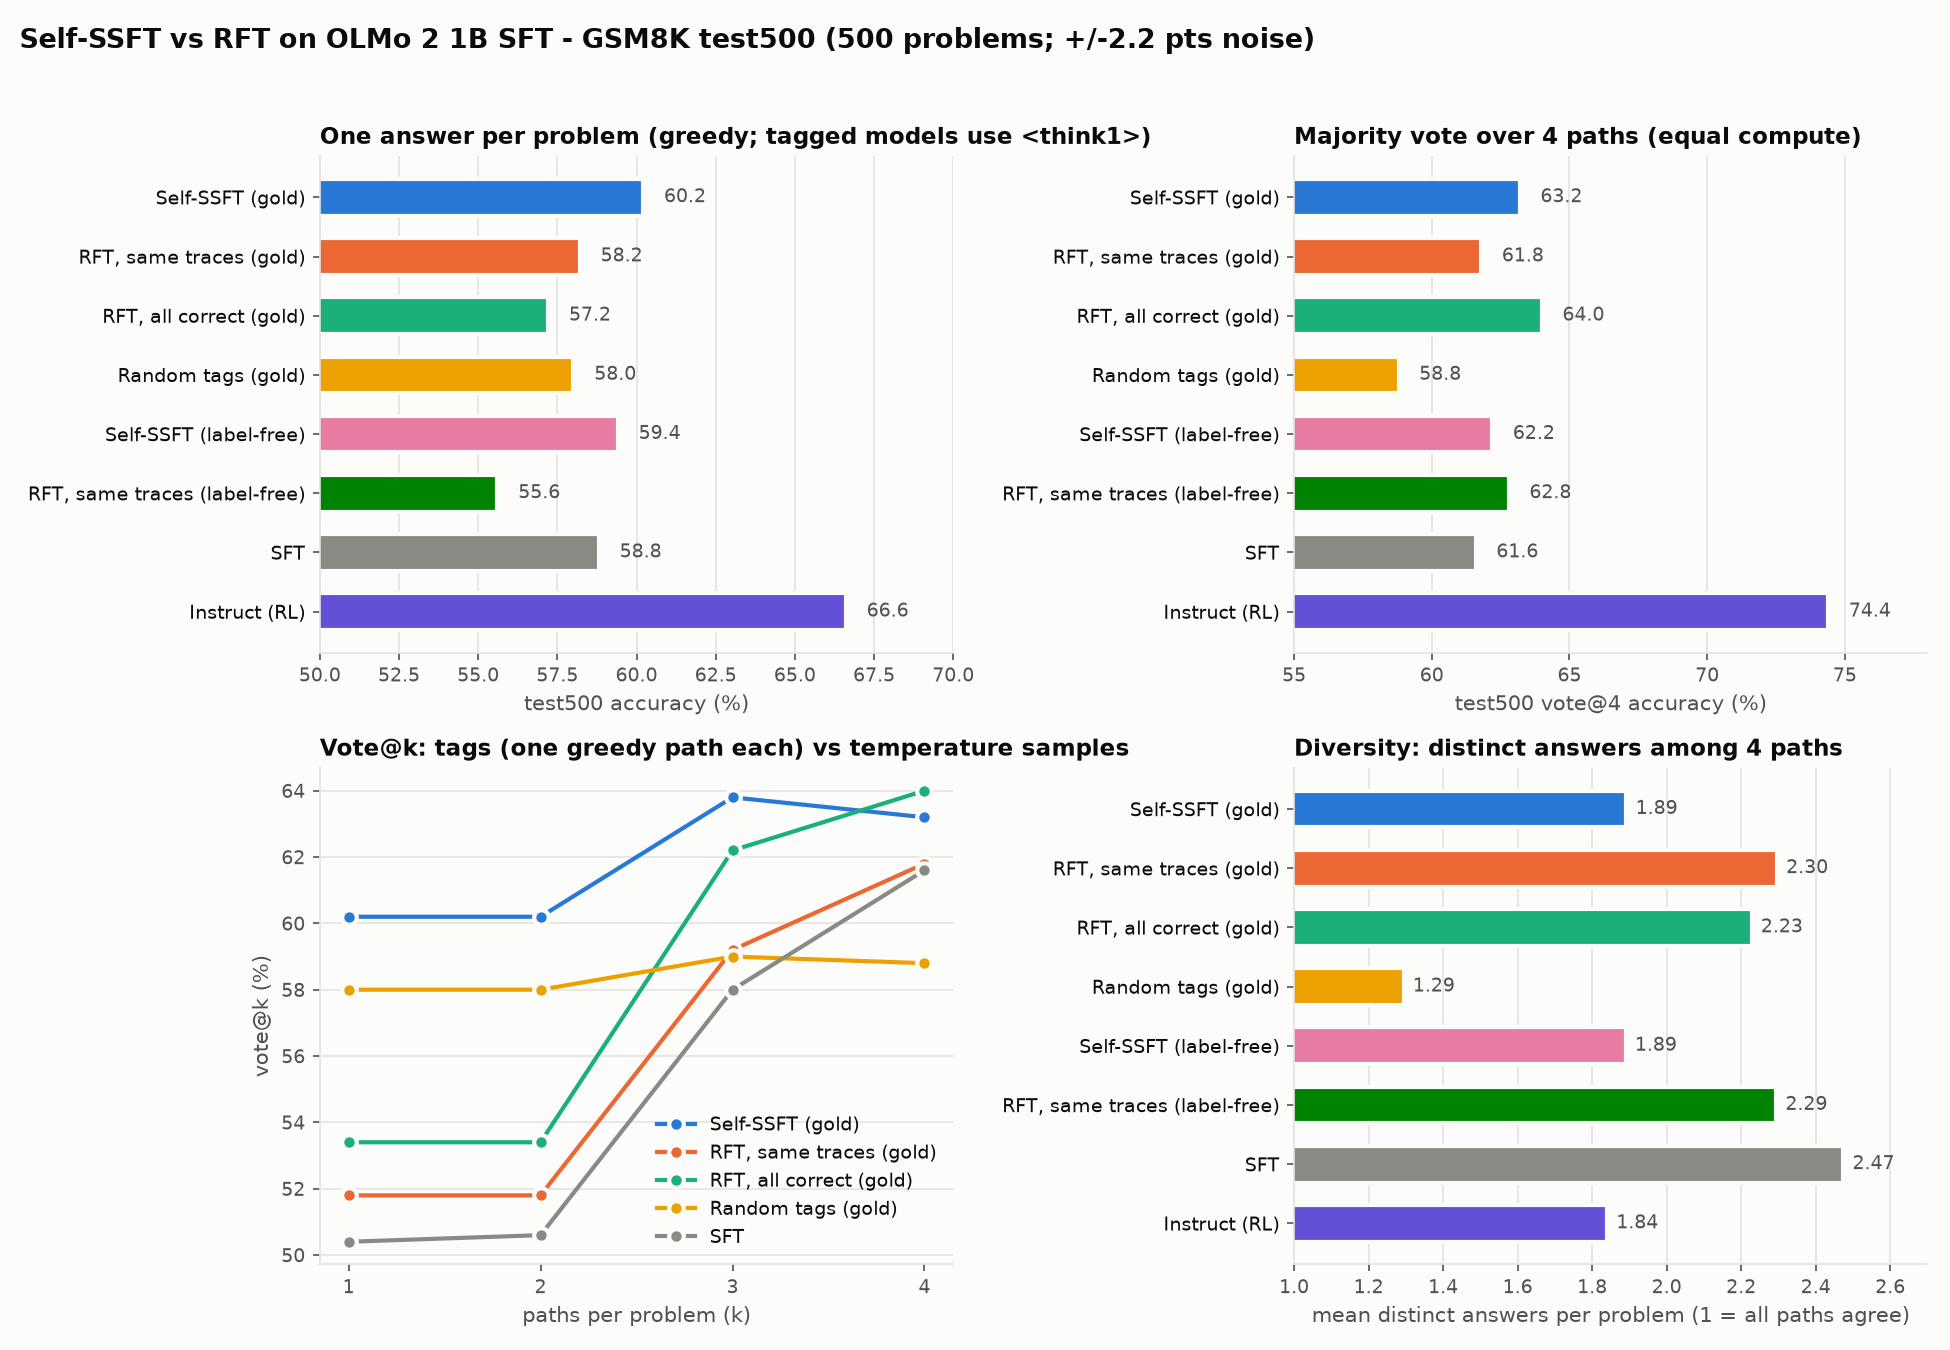
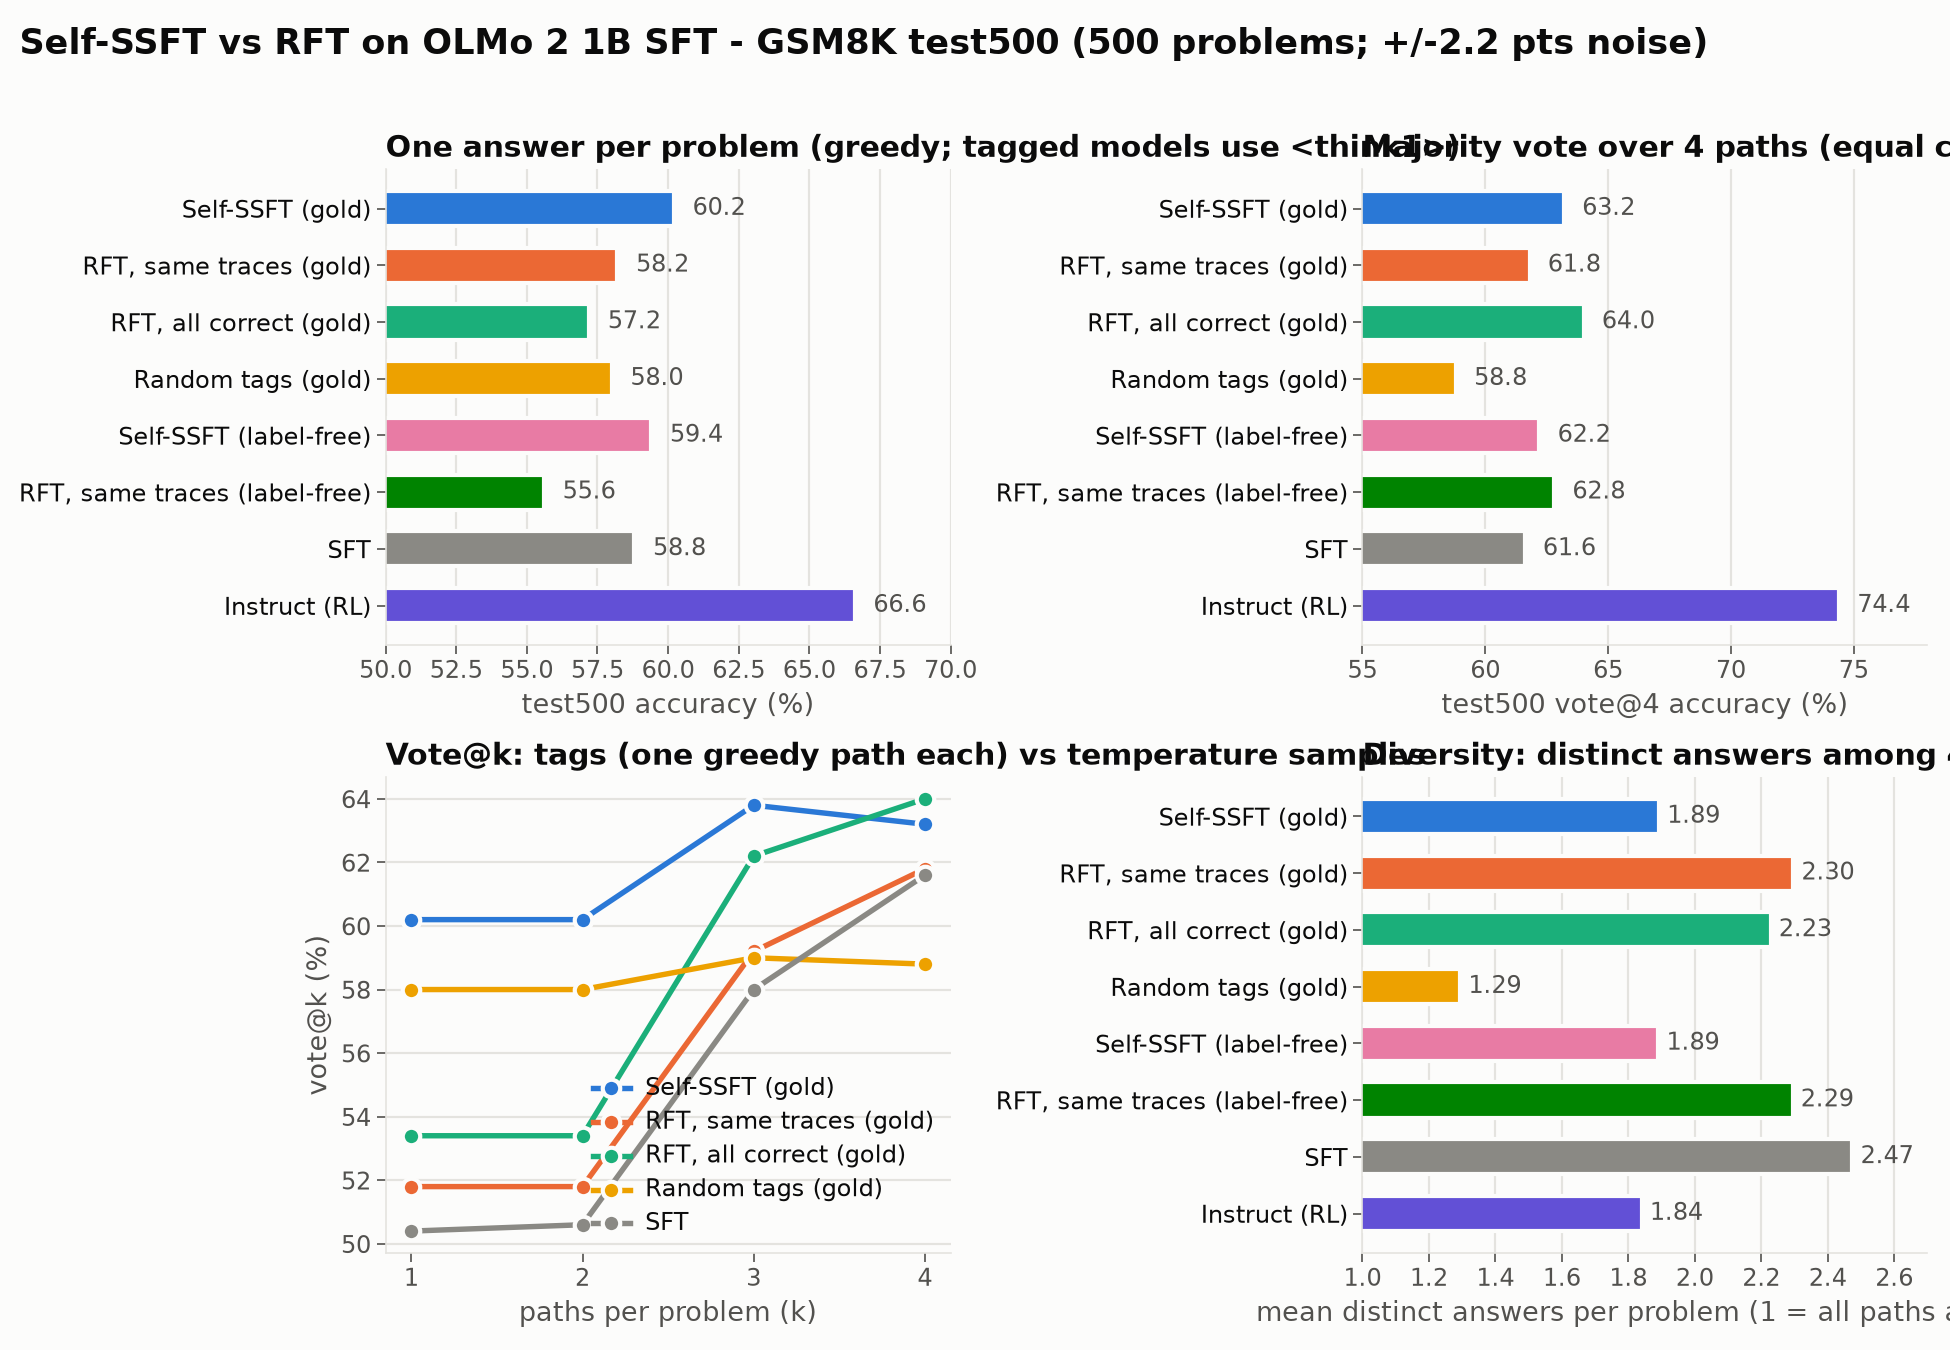
Self-SSFT at 7B: tag embeddings as a small delta (no full-embedding optimizer state), chunked scoring; gcp_ssft.sh SIZE=7b, SHUTDOWN=1; larger plot text

diff --git a/train/ssft_lora.py b/train/ssft_lora.py
@@ -116,6 +116,7 @@ def main():
     ap.add_argument("--accum", type=int, default=8, help="questions per optimizer step")
     ap.add_argument("--rank", type=int, default=32)
     ap.add_argument("--max_len", type=int, default=640)
+    ap.add_argument("--chunk", type=int, default=4, help="sequences per forward pass (memory)")
     ap.add_argument("--seed", type=int, default=0)
     ap.add_argument("--limit", type=int, default=None)
     ap.add_argument("--out", required=True)
@@ -161,14 +162,17 @@ def main():
             p.data = p.data.float()
     lora_params = [p for p in model.parameters() if p.requires_grad]
     groups = [{"params": lora_params, "lr": args.lr}]
-    if tags:   # only the new rows learn: gradients of every other row are zeroed (Adam then leaves them unchanged)
-        emb_w = model.get_input_embeddings().weight
-        emb_w.data = emb_w.data.float()
-        emb_w.requires_grad_(True)
-        mask = torch.zeros(emb_w.shape[0], 1, device=emb_w.device, dtype=emb_w.dtype)
-        mask[tag_ids] = 1
-        emb_w.register_hook(lambda gr: gr * mask)
-        groups.append({"params": [emb_w], "lr": args.emb_lr})
+    delta = None
+    if tags:   # tag embeddings learn through a small (N x d) delta added in a forward hook; merged into the rows at save
+        emb_mod = model.get_input_embeddings()
+        tag_t = torch.tensor(tag_ids, device="cuda")
+        delta = torch.nn.Parameter(torch.zeros(len(tag_ids), emb_mod.weight.shape[1], device="cuda"))
+
+        def add_delta(mod, inp, out):
+            hit = (inp[0].unsqueeze(-1) == tag_t).to(delta.dtype)          # [B, L, N]
+            return out + (hit @ delta).to(out.dtype)
+        hook = emb_mod.register_forward_hook(add_delta)
+        groups.append({"params": [delta], "lr": args.emb_lr})
     opt = torch.optim.AdamW(groups, weight_decay=0.0)
     total = math.ceil(len(sets) * args.epochs / args.accum); warm = max(1, total // 20)
     sched = torch.optim.lr_scheduler.LambdaLR(opt, lambda s: min(1.0, (s + 1) / warm) * max(0.0, 1 - s / max(1, total)))
@@ -199,12 +203,17 @@ def main():
         return ids, lab, att
 
     def per_seq_loss(ids, lab, att):
-        with torch.autocast("cuda", dtype=torch.bfloat16):
-            logits = model(input_ids=ids, attention_mask=att).logits[:, :-1].float()
-        tgt = lab[:, 1:]
-        nll = torch.nn.functional.cross_entropy(logits.transpose(1, 2), tgt.clamp(min=0), reduction="none")
-        m = (tgt != -100).float()
-        return (nll * m).sum(1) / m.sum(1).clamp(min=1)
+        """Mean token NLL per sequence, computed --chunk sequences at a time (full-vocab logits are large at 7B)."""
+        outs = []
+        for i in range(0, ids.shape[0], args.chunk):
+            with torch.autocast("cuda", dtype=torch.bfloat16):
+                logits = model(input_ids=ids[i:i + args.chunk], attention_mask=att[i:i + args.chunk]).logits[:, :-1]
+            tgt = lab[i:i + args.chunk, 1:]
+            nll = torch.nn.functional.cross_entropy(logits.float().transpose(1, 2), tgt.clamp(min=0), reduction="none")
+            m = (tgt != -100).float()
+            outs.append((nll * m).sum(1) / m.sum(1).clamp(min=1))
+            del logits, nll
+        return torch.cat(outs)
 
     model.train(); step = 0; log = []; usage = Counter(); agree_prev = []
     prev_assign = {}
@@ -239,6 +248,11 @@ def main():
                     log.append(rec); print(rec, flush=True); usage = Counter(); agree_prev = []
 
     out = Path(args.out); out.mkdir(parents=True, exist_ok=True)
+    if delta is not None:
+        hook.remove()
+        with torch.no_grad():
+            w = model.get_input_embeddings().weight
+            w[tag_ids] = (w[tag_ids].float() + delta).to(w.dtype)
     model.merge_and_unload().to(torch.bfloat16).save_pretrained(out, safe_serialization=True)
     tok.save_pretrained(out)
     json.dump({"args": vars(args), "tags": tags, "questions": len(sets), "traces": n_tr, "log": log},

diff --git a/analysis/plot_ssft.py b/analysis/plot_ssft.py
@@ -34,6 +34,15 @@ def style(ax, title):
     ax.set_axisbelow(True)
 
 
+def enlarge(fig, k):
+    """Scale every text and line in a figure so it stays readable when shrunk to a 5.5in column."""
+    import matplotlib.text, matplotlib.lines
+    for t in fig.findobj(matplotlib.text.Text):
+        t.set_fontsize(t.get_fontsize() * k)
+    for l in fig.findobj(matplotlib.lines.Line2D):
+        l.set_linewidth(l.get_linewidth() * 1.3); l.set_markersize(l.get_markersize() * 1.2)
+
+
 def hbar(ax, names, vals, fmt="{:.1f}"):
     y = range(len(names))
     ax.barh(list(y), vals, color=[C[n] for n in names], height=0.62, edgecolor=SURF, linewidth=2)
@@ -78,7 +87,7 @@ def main():
     ax.set_xlabel("mean distinct answers per problem (1 = all paths agree)", color=INK2)
     fig.suptitle("Self-SSFT vs RFT on OLMo 2 1B SFT - GSM8K test500 (500 problems; +/-2.2 pts noise)", x=0.01, ha="left",
                  fontsize=13, color=INK, fontweight="bold")
-    fig.tight_layout(rect=(0, 0, 1, 0.96)); fig.savefig(out / "ssft_results.png", dpi=150, facecolor=SURF); plt.close(fig)
+    enlarge(fig, 1.3); fig.tight_layout(rect=(0, 0, 1, 0.96)); fig.savefig(out / "ssft_results.png", dpi=150, facecolor=SURF); plt.close(fig)
 
     # ---------- per-tag accuracy ----------
     fig, ax = plt.subplots(figsize=(8, 4.2), facecolor=SURF); style(ax, "Accuracy of each tag (greedy)")
@@ -94,18 +103,19 @@ def main():
     # ---------- training ----------
     logs = {n: json.load(open(R / "configs" / f"{n}.json"))["log"]
             for n in ["ssft_gold", "ssft_majority", "ssft_gold_random", "rft_gold_m4"]}
-    fig, axs = plt.subplots(1, 3, figsize=(15, 4.4), facecolor=SURF)
-    ax = axs[0]; style(ax, "Training loss (noisy: one batch per point)")
+    fig, axs = plt.subplots(1, 3, figsize=(14, 4.6), facecolor=SURF)
+    ax = axs[0]; style(ax, "Training loss (one batch/point)")
     for n, L in logs.items():
         ax.plot([r["step"] for r in L], [r["loss"] for r in L], color=C[n], linewidth=2, label=NAME[n])
-    ax.set_xlabel("optimizer step", color=INK2); ax.set_ylabel("token NLL", color=INK2); ax.legend(frameon=False, fontsize=9)
+    ax.set_xlabel("optimizer step", color=INK2); ax.set_ylabel("token NLL", color=INK2)
+    ax.legend(frameon=False, fontsize=8, ncol=2, loc="upper center", bbox_to_anchor=(0.5, -0.18))
 
-    ax = axs[1]; style(ax, "Matching stability vs epoch 1")
+    ax = axs[1]; style(ax, "Same assignment as epoch 1")
     for n in ["ssft_gold", "ssft_majority"]:
         pts = [(r["step"], 100 * r["assignment_stable"]) for r in logs[n] if "assignment_stable" in r]
         ax.plot([p[0] for p in pts], [p[1] for p in pts], color=C[n], linewidth=2, marker="o", markersize=7,
                 markeredgecolor=SURF, markeredgewidth=2, label=NAME[n])
-    ax.axhline(25, color=INK2, linestyle=":", linewidth=1.2); ax.text(ax.get_xlim()[0], 26, " chance for 4 tags (approx.)", fontsize=8, color=INK2)
+    ax.axhline(100 / 24, color=INK2, linestyle=":", linewidth=1.2); ax.text(ax.get_xlim()[0], 7, " chance ~4% (1 of 24 assignments)", fontsize=8, color=INK2)
     ax.set_ylim(0, 100); ax.set_xlabel("optimizer step (epoch 2)", color=INK2); ax.set_ylabel("% of questions", color=INK2)
     ax.legend(frameon=False, fontsize=9)
 
@@ -119,7 +129,7 @@ def main():
     ax.axhline(25, color=INK, linewidth=0.8, linestyle=":"); ax.set_ylim(0, 100)
     ax.set_xlabel("optimizer step", color=INK2); ax.set_ylabel("% of matched traces", color=INK2)
     ax.legend(frameon=False, fontsize=8, ncol=4, loc="upper center", bbox_to_anchor=(0.5, -0.18))
-    fig.tight_layout(); fig.savefig(out / "ssft_training.png", dpi=150, facecolor=SURF); plt.close(fig)
+    enlarge(fig, 1.45); fig.tight_layout(); fig.savefig(out / "ssft_training.png", dpi=150, facecolor=SURF); plt.close(fig)
     print("wrote", sorted(p.name for p in out.glob("*.png")))
 
 
